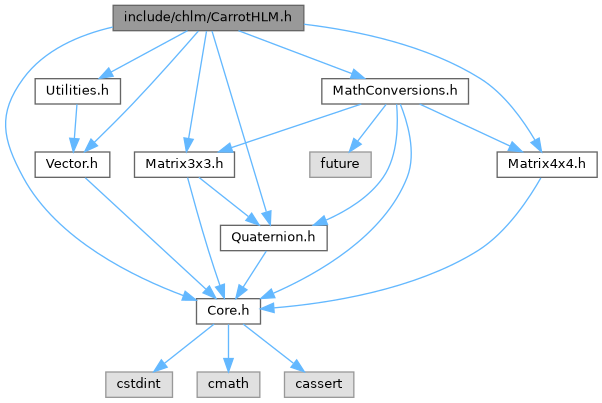
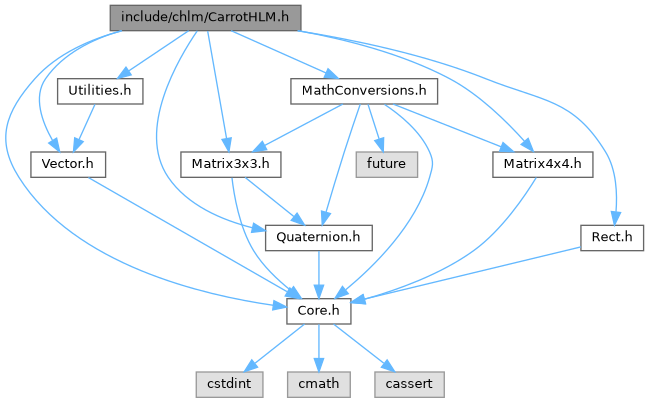
deploy: 51a5772216bddc952e37d28549e1e23c776d00ee

diff --git a/CarrotHLM_8h.html b/CarrotHLM_8h.html
@@ -99,45 +99,49 @@ $(document).ready(function(){initNavTree('CarrotHLM_8h.html',''); initResizable(
 <code>#include &quot;<a class="el" href="Matrix4x4_8h_source.html">Matrix4x4.h</a>&quot;</code><br />
 <code>#include &quot;<a class="el" href="Matrix3x3_8h_source.html">Matrix3x3.h</a>&quot;</code><br />
 <code>#include &quot;<a class="el" href="MathConversions_8h_source.html">MathConversions.h</a>&quot;</code><br />
+<code>#include &quot;<a class="el" href="Rect_8h_source.html">Rect.h</a>&quot;</code><br />
 <code>#include &quot;<a class="el" href="Utilities_8h_source.html">Utilities.h</a>&quot;</code><br />
 </div><div class="textblock"><div class="dynheader">
 Include dependency graph for CarrotHLM.h:</div>
 <div class="dyncontent">
 <div class="center"><img src="CarrotHLM_8h__incl.png" border="0" usemap="#ainclude_2chlm_2CarrotHLM_8h" alt=""/></div>
 <map name="ainclude_2chlm_2CarrotHLM_8h" id="ainclude_2chlm_2CarrotHLM_8h">
-<area shape="rect" title=" " alt="" coords="113,5,304,31"/>
-<area shape="rect" href="Core_8h.html" title=" " alt="" coords="196,299,260,324"/>
-<area shape="poly" title=" " alt="" coords="114,30,64,47,43,62,25,80,12,104,8,127,13,150,25,176,40,198,57,218,99,251,144,276,185,293,183,298,141,281,96,255,54,221,36,201,21,179,8,151,3,127,7,103,21,77,40,58,62,43,112,24"/>
-<area shape="rect" href="Vector_8h.html" title=" " alt="" coords="35,152,110,177"/>
-<area shape="poly" title=" " alt="" coords="200,33,134,106,96,144,92,140,131,102,196,29"/>
-<area shape="rect" href="Quaternion_8h.html" title=" " alt="" coords="220,225,327,251"/>
-<area shape="poly" title=" " alt="" coords="215,30,269,211,264,212,209,32"/>
-<area shape="rect" href="Matrix4x4_8h.html" title=" " alt="" coords="497,152,597,177"/>
-<area shape="poly" title=" " alt="" coords="304,22,348,28,394,39,439,55,482,76,514,106,537,138,533,141,510,109,479,81,437,60,392,44,347,33,303,27"/>
-<area shape="rect" href="Matrix3x3_8h.html" title=" " alt="" coords="134,152,234,177"/>
-<area shape="poly" title=" " alt="" coords="209,32,191,139,186,138,204,31"/>
-<area shape="rect" href="MathConversions_8h.html" title=" " alt="" coords="322,79,468,104"/>
-<area shape="poly" title=" " alt="" coords="239,28,353,71,351,76,238,33"/>
-<area shape="rect" href="Utilities_8h.html" title=" " alt="" coords="35,79,120,104"/>
-<area shape="poly" title=" " alt="" coords="189,33,112,74,110,70,186,28"/>
-<area shape="rect" title=" " alt="" coords="106,372,172,397"/>
-<area shape="poly" title=" " alt="" coords="216,326,166,365,163,361,212,322"/>
-<area shape="rect" title=" " alt="" coords="197,372,260,397"/>
-<area shape="poly" title=" " alt="" coords="231,324,231,358,226,358,226,324"/>
-<area shape="rect" title=" " alt="" coords="284,372,354,397"/>
-<area shape="poly" title=" " alt="" coords="245,322,295,361,292,365,241,326"/>
-<area shape="poly" title=" " alt="" coords="87,176,208,287,204,291,83,180"/>
-<area shape="poly" title=" " alt="" coords="269,252,245,289,241,286,264,250"/>
-<area shape="poly" title=" " alt="" coords="543,179,519,216,501,236,479,253,428,278,373,295,320,305,274,310,274,305,319,300,371,290,426,273,476,248,497,232,514,213,539,176"/>
-<area shape="poly" title=" " alt="" coords="190,177,211,250,223,285,217,286,206,251,185,178"/>
-<area shape="poly" title=" " alt="" coords="201,175,250,214,247,219,197,179"/>
-<area shape="poly" title=" " alt="" coords="403,103,413,137,414,158,410,178,399,200,385,219,350,252,311,277,275,296,272,291,309,273,347,248,381,216,394,197,405,176,408,158,407,138,398,105"/>
-<area shape="poly" title=" " alt="" coords="399,104,399,139,395,160,385,179,359,205,327,222,325,218,356,200,381,176,389,158,394,139,394,104"/>
-<area shape="poly" title=" " alt="" coords="421,102,511,144,509,149,418,106"/>
-<area shape="poly" title=" " alt="" coords="362,107,232,150,230,145,360,101"/>
-<area shape="rect" title=" " alt="" coords="310,152,371,177"/>
-<area shape="poly" title=" " alt="" coords="388,106,360,143,356,140,384,103"/>
-<area shape="poly" title=" " alt="" coords="80,105,77,139,72,138,74,104"/>
+<area shape="rect" title=" " alt="" coords="110,5,301,31"/>
+<area shape="rect" href="Core_8h.html" title=" " alt="" coords="287,299,351,324"/>
+<area shape="poly" title=" " alt="" coords="123,33,76,51,55,64,37,80,19,104,10,127,10,150,21,176,45,206,74,231,107,252,142,268,213,291,274,303,273,308,211,296,140,273,104,256,71,235,41,210,17,179,5,151,4,126,14,102,33,77,52,60,74,46,121,28"/>
+<area shape="rect" href="Vector_8h.html" title=" " alt="" coords="31,152,106,177"/>
+<area shape="poly" title=" " alt="" coords="122,33,80,51,62,64,48,80,42,94,43,109,55,139,50,141,38,110,37,93,43,77,59,60,78,46,120,28"/>
+<area shape="rect" href="Quaternion_8h.html" title=" " alt="" coords="266,225,372,251"/>
+<area shape="poly" title=" " alt="" coords="200,32,183,60,166,97,159,138,162,158,170,176,187,194,207,208,253,225,252,230,205,212,183,198,166,179,157,159,154,138,161,96,178,57,195,29"/>
+<area shape="rect" href="Matrix4x4_8h.html" title=" " alt="" coords="493,152,593,177"/>
+<area shape="poly" title=" " alt="" coords="299,28,375,46,414,59,451,76,493,107,526,139,523,143,490,111,448,81,412,64,373,51,298,33"/>
+<area shape="rect" href="Matrix3x3_8h.html" title=" " alt="" coords="181,152,281,177"/>
+<area shape="poly" title=" " alt="" coords="210,31,229,138,224,139,205,32"/>
+<area shape="rect" href="MathConversions_8h.html" title=" " alt="" coords="291,79,438,104"/>
+<area shape="poly" title=" " alt="" coords="232,28,327,71,325,75,230,33"/>
+<area shape="rect" href="Rect_8h.html" title=" " alt="" coords="581,225,644,251"/>
+<area shape="poly" title=" " alt="" coords="298,28,390,46,486,76,556,102,583,119,608,151,618,182,619,212,613,212,613,182,603,153,579,123,554,106,485,81,389,52,297,33"/>
+<area shape="rect" href="Utilities_8h.html" title=" " alt="" coords="58,79,143,104"/>
+<area shape="poly" title=" " alt="" coords="190,33,130,73,127,69,187,28"/>
+<area shape="rect" title=" " alt="" coords="196,372,263,397"/>
+<area shape="poly" title=" " alt="" coords="306,326,257,365,253,361,303,322"/>
+<area shape="rect" title=" " alt="" coords="288,372,350,397"/>
+<area shape="poly" title=" " alt="" coords="322,324,322,358,316,358,316,324"/>
+<area shape="rect" title=" " alt="" coords="375,372,444,397"/>
+<area shape="poly" title=" " alt="" coords="335,322,385,361,382,365,332,326"/>
+<area shape="poly" title=" " alt="" coords="90,175,288,289,286,294,87,180"/>
+<area shape="poly" title=" " alt="" coords="322,251,322,285,316,285,316,251"/>
+<area shape="poly" title=" " alt="" coords="538,179,514,215,496,235,475,253,420,283,366,302,364,297,418,278,472,248,492,231,509,211,534,176"/>
+<area shape="poly" title=" " alt="" coords="235,177,241,211,256,249,273,270,292,288,289,292,269,274,251,252,236,213,229,178"/>
+<area shape="poly" title=" " alt="" coords="247,175,296,214,292,219,243,179"/>
+<area shape="poly" title=" " alt="" coords="386,102,411,122,432,151,435,164,432,178,417,213,395,244,348,292,344,288,391,241,412,210,427,177,430,164,427,153,407,126,383,106"/>
+<area shape="poly" title=" " alt="" coords="363,105,347,153,329,213,324,211,342,151,358,103"/>
+<area shape="poly" title=" " alt="" coords="394,102,502,144,500,149,392,107"/>
+<area shape="poly" title=" " alt="" coords="344,106,266,148,264,143,342,102"/>
+<area shape="rect" title=" " alt="" coords="356,152,418,177"/>
+<area shape="poly" title=" " alt="" coords="371,104,382,138,377,140,365,105"/>
+<area shape="poly" title=" " alt="" coords="582,249,365,302,364,297,580,244"/>
+<area shape="poly" title=" " alt="" coords="97,105,81,141,77,139,93,103"/>
 </map>
 </div>
 </div>

diff --git a/Core_8h.html b/Core_8h.html
@@ -120,33 +120,34 @@ This graph shows which files directly or indirectly include this file:</div>
 <div class="dyncontent">
 <div class="center"><img src="Core_8h__dep__incl.png" border="0" usemap="#ainclude_2chlm_2Core_8hdep" alt=""/></div>
 <map name="ainclude_2chlm_2Core_8hdep" id="ainclude_2chlm_2Core_8hdep">
-<area shape="rect" title=" " alt="" coords="312,5,463,31"/>
-<area shape="rect" href="CarrotHLM_8h.html" title=" " alt="" coords="351,299,541,324"/>
-<area shape="poly" title=" " alt="" coords="299,26,192,38,137,49,87,65,46,84,18,109,11,123,8,139,11,157,19,176,42,207,67,224,137,248,191,266,246,280,351,298,350,303,245,285,190,271,136,253,65,228,38,211,14,179,5,158,3,139,6,122,14,106,43,80,85,60,135,44,191,33,298,21"/>
-<area shape="rect" href="MathConversions_8h.html" title=" " alt="" coords="174,225,409,251"/>
-<area shape="poly" title=" " alt="" coords="334,38,304,55,281,80,273,98,269,118,270,159,279,196,289,224,284,226,274,198,265,160,264,118,268,97,277,77,301,51,331,34"/>
-<area shape="rect" href="Matrix3x3_8h.html" title=" " alt="" coords="341,152,527,177"/>
-<area shape="poly" title=" " alt="" coords="444,34,475,51,499,77,503,89,503,100,492,121,474,140,455,154,452,150,471,136,488,118,498,99,498,90,494,80,471,55,441,38"/>
-<area shape="rect" href="Matrix4x4_8h.html" title=" " alt="" coords="29,152,215,177"/>
-<area shape="poly" title=" " alt="" coords="337,38,287,56,235,81,179,119,136,154,133,150,175,115,233,76,285,51,335,33"/>
-<area shape="rect" href="Quaternion_8h.html" title=" " alt="" coords="291,79,484,104"/>
-<area shape="poly" title=" " alt="" coords="390,44,390,79,385,79,385,44"/>
-<area shape="rect" href="Rect_8h.html" title=" " alt="" coords="611,79,761,104"/>
-<area shape="poly" title=" " alt="" coords="449,31,638,76,637,81,448,36"/>
-<area shape="rect" href="Vector_8h.html" title=" " alt="" coords="605,152,767,177"/>
-<area shape="poly" title=" " alt="" coords="426,34,518,76,665,149,662,154,515,81,424,39"/>
-<area shape="poly" title=" " alt="" coords="329,254,422,296,419,301,327,259"/>
-<area shape="poly" title=" " alt="" coords="439,191,448,298,442,299,433,192"/>
-<area shape="poly" title=" " alt="" coords="400,186,316,227,313,223,398,181"/>
-<area shape="poly" title=" " alt="" coords="130,190,142,221,151,236,163,249,195,264,241,277,351,297,350,302,240,283,193,269,160,253,147,239,137,224,125,192"/>
-<area shape="poly" title=" " alt="" coords="163,180,265,223,262,228,161,185"/>
-<area shape="poly" title=" " alt="" coords="478,106,513,123,541,150,550,172,550,194,542,216,529,237,496,274,464,301,460,297,492,270,525,234,538,213,545,193,545,173,537,154,510,128,476,111"/>
-<area shape="poly" title=" " alt="" coords="365,115,331,154,310,192,297,226,292,224,305,190,326,150,361,112"/>
-<area shape="poly" title=" " alt="" coords="404,114,429,150,424,153,400,117"/>
-<area shape="poly" title=" " alt="" coords="732,180,759,194,781,211,793,230,793,241,787,252,770,266,747,276,685,293,613,303,542,309,541,304,612,298,684,288,745,271,768,261,783,249,788,240,788,232,777,214,756,199,729,185"/>
-<area shape="rect" href="Utilities_8h.html" title=" " alt="" coords="600,225,772,251"/>
-<area shape="poly" title=" " alt="" coords="689,191,689,225,683,225,683,191"/>
-<area shape="poly" title=" " alt="" coords="635,257,485,301,484,296,633,252"/>
+<area shape="rect" title=" " alt="" coords="289,5,439,31"/>
+<area shape="rect" href="CarrotHLM_8h.html" title=" " alt="" coords="391,299,582,324"/>
+<area shape="poly" title=" " alt="" coords="275,29,174,44,123,57,77,72,40,92,16,115,10,128,8,143,12,159,21,176,43,198,79,218,125,236,178,252,293,278,399,296,398,301,292,284,177,258,124,241,77,223,40,202,16,179,7,160,3,143,5,127,11,112,37,87,75,67,122,51,173,39,274,24"/>
+<area shape="rect" href="MathConversions_8h.html" title=" " alt="" coords="292,225,527,251"/>
+<area shape="poly" title=" " alt="" coords="367,44,371,105,384,177,405,224,400,226,379,178,365,106,361,44"/>
+<area shape="rect" href="Matrix3x3_8h.html" title=" " alt="" coords="31,152,217,177"/>
+<area shape="poly" title=" " alt="" coords="276,32,182,51,145,64,122,80,114,97,113,116,121,151,116,152,108,117,109,96,118,77,142,59,181,46,275,27"/>
+<area shape="rect" href="Matrix4x4_8h.html" title=" " alt="" coords="393,152,580,177"/>
+<area shape="poly" title=" " alt="" coords="385,40,479,150,475,154,381,43"/>
+<area shape="rect" href="Quaternion_8h.html" title=" " alt="" coords="133,79,326,104"/>
+<area shape="poly" title=" " alt="" coords="331,39,252,81,250,76,329,35"/>
+<area shape="rect" href="Rect_8h.html" title=" " alt="" coords="521,79,671,104"/>
+<area shape="poly" title=" " alt="" coords="415,32,559,76,558,81,413,37"/>
+<area shape="rect" href="Vector_8h.html" title=" " alt="" coords="655,152,817,177"/>
+<area shape="poly" title=" " alt="" coords="453,25,585,44,644,59,685,76,704,93,718,114,735,151,730,153,713,116,700,97,682,81,643,64,584,50,452,30"/>
+<area shape="poly" title=" " alt="" coords="434,258,476,296,472,300,430,262"/>
+<area shape="poly" title=" " alt="" coords="147,185,187,218,237,248,277,265,319,278,401,296,399,301,318,283,275,270,235,253,184,222,144,189"/>
+<area shape="poly" title=" " alt="" coords="183,178,364,223,362,228,182,183"/>
+<area shape="poly" title=" " alt="" coords="513,185,529,203,541,225,543,247,534,268,519,286,504,300,501,296,516,282,529,265,537,246,536,226,525,206,509,188"/>
+<area shape="poly" title=" " alt="" coords="466,189,424,227,420,223,462,185"/>
+<area shape="poly" title=" " alt="" coords="233,117,236,147,245,183,259,218,282,249,306,267,333,282,392,300,390,305,331,287,303,272,278,253,255,221,240,184,231,148,228,118"/>
+<area shape="poly" title=" " alt="" coords="256,111,396,223,393,227,253,115"/>
+<area shape="poly" title=" " alt="" coords="202,114,143,154,140,150,199,110"/>
+<area shape="poly" title=" " alt="" coords="600,118,599,147,594,178,582,218,559,252,533,280,506,301,502,296,529,276,555,249,577,215,589,177,594,147,595,118"/>
+<area shape="poly" title=" " alt="" coords="717,189,681,221,637,253,580,281,526,301,524,296,578,276,634,248,678,217,713,185"/>
+<area shape="rect" href="Utilities_8h.html" title=" " alt="" coords="706,225,878,251"/>
+<area shape="poly" title=" " alt="" coords="756,187,785,224,781,227,752,190"/>
+<area shape="poly" title=" " alt="" coords="730,256,537,301,535,296,729,251"/>
 </map>
 </div>
 </div>

diff --git a/CarrotHLM_8h_source.html b/CarrotHLM_8h_source.html
@@ -144,12 +144,14 @@ $(document).ready(function(){initNavTree('CarrotHLM_8h_source.html',''); initRes
 <div class="line"><a id="l00044" name="l00044"></a><span class="lineno">   44</span><span class="preprocessor">#include &quot;<a class="code" href="Matrix4x4_8h.html">Matrix4x4.h</a>&quot;</span></div>
 <div class="line"><a id="l00045" name="l00045"></a><span class="lineno">   45</span><span class="preprocessor">#include &quot;<a class="code" href="Matrix3x3_8h.html">Matrix3x3.h</a>&quot;</span></div>
 <div class="line"><a id="l00046" name="l00046"></a><span class="lineno">   46</span><span class="preprocessor">#include &quot;<a class="code" href="MathConversions_8h.html">MathConversions.h</a>&quot;</span></div>
-<div class="line"><a id="l00047" name="l00047"></a><span class="lineno">   47</span><span class="preprocessor">#include &quot;<a class="code" href="Utilities_8h.html">Utilities.h</a>&quot;</span></div>
+<div class="line"><a id="l00047" name="l00047"></a><span class="lineno">   47</span><span class="preprocessor">#include &quot;<a class="code" href="Rect_8h.html">Rect.h</a>&quot;</span></div>
+<div class="line"><a id="l00048" name="l00048"></a><span class="lineno">   48</span><span class="preprocessor">#include &quot;<a class="code" href="Utilities_8h.html">Utilities.h</a>&quot;</span></div>
 <div class="ttc" id="aCore_8h_html"><div class="ttname"><a href="Core_8h.html">Core.h</a></div></div>
 <div class="ttc" id="aMathConversions_8h_html"><div class="ttname"><a href="MathConversions_8h.html">MathConversions.h</a></div></div>
 <div class="ttc" id="aMatrix3x3_8h_html"><div class="ttname"><a href="Matrix3x3_8h.html">Matrix3x3.h</a></div></div>
 <div class="ttc" id="aMatrix4x4_8h_html"><div class="ttname"><a href="Matrix4x4_8h.html">Matrix4x4.h</a></div></div>
 <div class="ttc" id="aQuaternion_8h_html"><div class="ttname"><a href="Quaternion_8h.html">Quaternion.h</a></div></div>
+<div class="ttc" id="aRect_8h_html"><div class="ttname"><a href="Rect_8h.html">Rect.h</a></div></div>
 <div class="ttc" id="aUtilities_8h_html"><div class="ttname"><a href="Utilities_8h.html">Utilities.h</a></div></div>
 <div class="ttc" id="aVector_8h_html"><div class="ttname"><a href="Vector_8h.html">Vector.h</a></div></div>
 </div><!-- fragment --></div><!-- contents -->

diff --git a/Rect_8h.html b/Rect_8h.html
@@ -114,6 +114,16 @@ Include dependency graph for Rect.h:</div>
 <area shape="poly" title=" " alt="" coords="144,102,195,141,191,145,141,106"/>
 </map>
 </div>
+</div><div class="textblock"><div class="dynheader">
+This graph shows which files directly or indirectly include this file:</div>
+<div class="dyncontent">
+<div class="center"><img src="Rect_8h__dep__incl.png" border="0" usemap="#ainclude_2chlm_2Rect_8hdep" alt=""/></div>
+<map name="ainclude_2chlm_2Rect_8hdep" id="ainclude_2chlm_2Rect_8hdep">
+<area shape="rect" title=" " alt="" coords="25,5,176,31"/>
+<area shape="rect" href="CarrotHLM_8h.html" title=" " alt="" coords="5,79,196,104"/>
+<area shape="poly" title=" " alt="" coords="103,44,103,79,98,79,98,44"/>
+</map>
+</div>
 </div>
 <p><a href="Rect_8h_source.html">Go to the source code of this file.</a></p>
 <table class="memberdecls">
